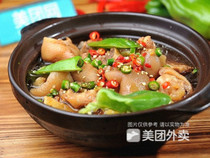
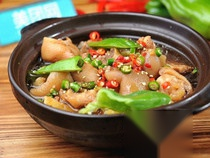
新增log图片数据

diff --git a/Image/demo2.py b/Image/demo2.py
@@ -1,9 +1,32 @@
 import cv2
-from PIL import Image
+import numpy as np
 
-# a = cv2.imread('./log.png')
-# cv2.imshow('img', a)
-# cv2.waitKey(0)
-# cv2.destroyAllWindows()
-a = Image.open('./test.jpg')
-a.save('./test.jpeg')
+# mask = cv2.imread('./log_black.png', cv2.IMREAD_GRAYSCALE)
+mask = cv2.imread('./log.png')
+print(mask.shape)
+img = cv2.imread('./test1.jpg')
+
+dilate = cv2.dilate(mask, None, iterations=1)
+
+# dst = cv2.inpaint(img, dilate, 5, cv2.INPAINT_TELEA)
+
+for row in range(img.shape[0]):
+    for col in range(img.shape[1]):
+        for channel in range(img.shape[2]):
+            if mask[row, col, channel] == 0:
+                val = 0
+            else:
+                reverse_val = 255 - img[row, col, channel]
+                val = 255 - reverse_val * 256 / mask[row, col, channel]
+                if val < 0: val = 0
+            img[row, col, channel] = val
+
+
+
+
+cv2.imshow('mask', mask)
+
+cv2.imshow('image', img)
+
+cv2.waitKey(0)
+cv2.destroyAllWindows()
